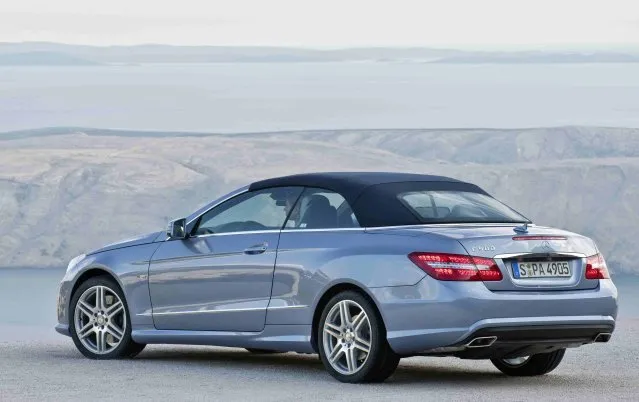
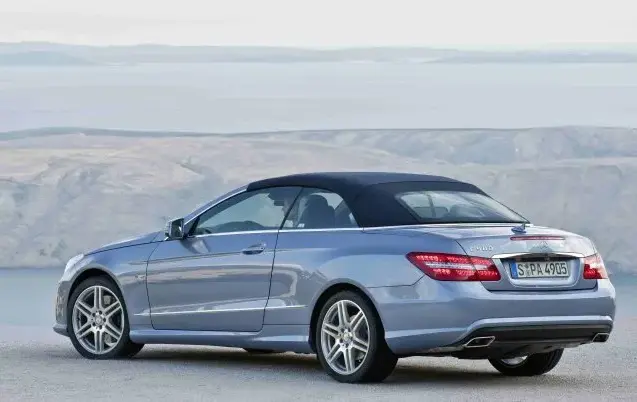
246

diff --git a/pic/en_mb_img_ce.html b/pic/en_mb_img_ce.html
@@ -194,6 +194,7 @@
 				console.groupEnd();
 			}
 		};
+
 		// 初期化処理（エラーハンドリング追加）
 		try {
 			if (window._cookiescript.hasConsent()) {
@@ -217,6 +218,7 @@
 
 <!-- Google tag (gtag.js) -->
 <script async src="https://www.googletagmanager.com/gtag/js?id=GT-KFG3B2J"></script>
+
 <!-- </body>直前に追加 -->
 <script>
 	if (!window.dataLayer.some(e => e.event === 'page_view')) {
@@ -237,7 +239,7 @@
 		});
 	</script>
 	<script src="//cdn.cookie-script.com/s/8e78f8bb08fea7bc4ae66adb24bb7b98.js"></script>
-
+	
 	<!-- 8. GTM noscriptフォールバック -->
 	<noscript>
 		<iframe src="https://www.googletagmanager.com/ns.html?id=GTM-MMJ4PJ3" height="0" width="0" style="display:none;visibility:hidden"></iframe>
@@ -492,7 +494,7 @@
 					<section>
 						<h4 class="displayNone">Cabriolet</h4>
 						<a href="full/ce/a207_f.jpg"><img loading="lazy" src="style/ce/a207_f.webp" alt="Mercedes,A207,E-class cabriolet,Front view" width="568" height="402"></a>
-						<a href="full/ce/a207_r.jpg"><img loading="lazy" src="style/ce/a207_r.webp" alt="Mercedes,A207,E-class cabriolet,Rear view" width="639" height="402"></a><br>
+						<a href="full/ce/a207_r.jpg"><img loading="lazy" src="style/ce/a207_r.webp" alt="Mercedes,A207,E-class cabriolet,Rear view" width="637" height="402"></a><br>
 						<h5 class="i">Facelift</h5>
 						<p class="i m1">05/2013</p><br>
 						<a href="full/ce/a207_f2.jpg"><img loading="lazy" src="style/ce/a207_f2.webp" alt="Mercedes,A207,E-class cabriolet,Front view" width="594" height="362"></a>

diff --git a/pic/ja_mb_img_ce.html b/pic/ja_mb_img_ce.html
@@ -194,6 +194,7 @@
 				console.groupEnd();
 			}
 		};
+
 		// 初期化処理（エラーハンドリング追加）
 		try {
 			if (window._cookiescript.hasConsent()) {
@@ -217,6 +218,7 @@
 
 <!-- Google tag (gtag.js) -->
 <script async src="https://www.googletagmanager.com/gtag/js?id=GT-KFG3B2J"></script>
+
 <!-- </body>直前に追加 -->
 <script>
 	if (!window.dataLayer.some(e => e.event === 'page_view')) {
@@ -492,7 +494,7 @@
 					<section>
 						<h4 class="displayNone">Cabriolet</h4>
 						<a href="full/ce/a207_f.jpg"><img loading="lazy" src="style/ce/a207_f.webp" alt="メルセデス,A207,Eクラス,カブリオレ,フロント" width="568" height="402"></a>
-						<a href="full/ce/a207_r.jpg"><img loading="lazy" src="style/ce/a207_r.webp" alt="メルセデス,A207,Eクラス,カブリオレ,リヤ" width="639" height="402"></a><br>
+						<a href="full/ce/a207_r.jpg"><img loading="lazy" src="style/ce/a207_r.webp" alt="メルセデス,A207,Eクラス,カブリオレ,リヤ" width="637" height="402"></a><br>
 						<h5 class="i">フェイスリフト</h5>
 						<p class="i m1">05/2013</p><br>
 						<a href="full/ce/a207_f2.jpg"><img loading="lazy" src="style/ce/a207_f2.webp" alt="メルセデス,A207,Eクラス,カブリオレ,フロント" width="594" height="362"></a>
@@ -707,6 +709,7 @@
 	</script>
 </body>
 
+<!-- スクロールしてトップ -->
 <script src="https://ajax.googleapis.com/ajax/libs/jquery/3.7.1/jquery.min.js"></script>
 <script>
 	$(function () {

diff --git a/pic/mb_img_ce.html b/pic/mb_img_ce.html
@@ -218,6 +218,7 @@
 
 <!-- Google tag (gtag.js) -->
 <script async src="https://www.googletagmanager.com/gtag/js?id=GT-KFG3B2J"></script>
+
 <!-- </body>直前に追加 -->
 <script>
 	if (!window.dataLayer.some(e => e.event === 'page_view')) {
@@ -493,7 +494,7 @@
 					<section>
 						<h4 class="displayNone">Cabriolet</h4>
 						<a href="full/ce/a207_f.jpg"><img loading="lazy" src="style/ce/a207_f.webp" alt="Mercedes,A207,E-klasse cabriolet,Vorderansicht" width="568" height="402"></a>
-						<a href="full/ce/a207_r.jpg"><img loading="lazy" src="style/ce/a207_r.webp" alt="Mercedes,A207,E-klasse cabriolet,Rückansicht" width="639" height="402"></a><br>
+						<a href="full/ce/a207_r.jpg"><img loading="lazy" src="style/ce/a207_r.webp" alt="Mercedes,A207,E-klasse cabriolet,Rückansicht" width="637" height="402"></a><br>
 						<h5 class="i">Modellpflege</h5>
 						<p class="i m1">05/2013</p><br>
 						<a href="full/ce/a207_f2.jpg"><img loading="lazy" src="style/ce/a207_f2.webp" alt="Mercedes,A207,E-klasse cabriolet,Vorderansicht" width="594" height="362"></a>
